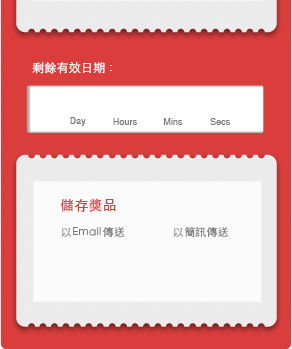
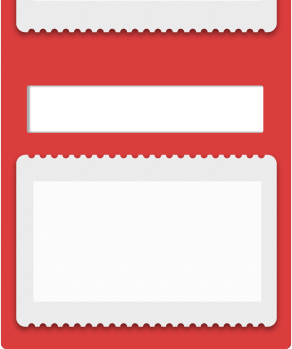
update 0506

diff --git a/app/index.html b/app/index.html
@@ -142,9 +142,18 @@
           </aside>
           <aside class="coupon-butt">
               <aside class="counter text-center">
-                <span id="expired" class="Open-Sans-bold-600 text-red" data-expiration="2016/5/1"></span>
+                <label class="counter-label">剩餘有效日期 :</label>
+                <span id="expired" class="Open-Sans-bold-600 text-red" data-expiration="2016/6/1"></span>
+
+                <label class="counter-label-day">Day</label>
+                <label class="counter-label-hour">Hour</label>
+                <label class="counter-label-min">Mins</label>
+                <label class="counter-label-sec">Secs</label>
               </aside>
               <aside class="functions vertical-middle text-left">
+                <label class="save-label">儲存獎品</label>
+                <label class="save-label-email">以Email傳送</label>
+                <label class="save-label-sms">以簡訊傳送</label>
                 <a href="javascript:" class="btn-email">
                   <img src="images/common/email.png">
                 </a>
@@ -161,7 +170,11 @@
             <aside class="logo vertical-bottom text-center">
               <img src="images/logo-100x100.png">
             </aside>
-            <input type="email" name="email">
+            <span class="caption">儲存獎品</span>
+            <span class="input-label">輸入Email地址</span>
+            <span class="input" title="Email:">
+              <input type="email" name="email">
+            </span>
             <aside class="functions vertical-bottom text-center">
               <a href="javascript:" class="btn-thankyou">
                 <img src="images/index/submit.png">
@@ -176,7 +189,11 @@
             <aside class="logo vertical-bottom text-center">
               <img src="images/logo-100x100.png">
             </aside>
-            <input type="email" name="email">
+            <span class="caption">儲存獎品</span>
+            <span class="input-label">輸入手機號碼</span>
+            <span class="input" title="TEL:">
+              <input type="email" name="email">
+            </span>
             <aside class="functions vertical-bottom text-center">
               <a href="javascript:" class="btn-thankyou">
                 <img src="images/index/submit.png">
@@ -198,6 +215,21 @@
               &amp;redirect_uri=https://developers.facebook.com/tools/explorer">
             <img src="images/common/share.png">
           </a>
+          <span class="caption">
+            儲存成功！非常感謝您的參與！ Thank You!
+          </span>
+          <span class="facebook-caption">
+            分享優惠
+          </span>
+          <span class="location-caption">
+            兌換地點
+          </span>
+          <span class="expiration-caption">
+            Expiration Date
+          </span>
+          <span class="more-caption">
+            更多獎項優惠
+          </span>
           <span class="zip text-dark text-left">10293</span>
           <span class="address text-dark text-left">臺北市大安區忠孝東路3段302號</span>
           <span class="expired text-dark text-left">2016 / 09 / 14</span>

diff --git a/app/styles/main.scss b/app/styles/main.scss
@@ -573,6 +573,60 @@ body {
       }
     }
   }
+  .counter-label{
+    position:absolute;
+    top:vw320(912);
+    left:vw320(47);
+    color:#fff;
+    font-size: vw320(12);
+  }
+  .counter-label-day,
+  .counter-label-hour,
+  .counter-label-min,
+  .counter-label-sec{
+    position:absolute;
+    top:vw320(966);
+    left:vw320(83);
+    color: inherit;
+    font-size: vw320(10);
+    font-weight: normal;
+
+  }
+  .counter-label-hour{
+    left:vw320(126);
+  }
+  .counter-label-min{
+    left:vw320(176);
+  }
+  .counter-label-sec{
+    left:vw320(223);
+  }
+  .save-label{
+    position:absolute;
+    color:#DB3D3D;
+    top:vw320(1048);
+    left:vw320(74);
+    letter-spacing: 1px;
+    font-weight: normal;
+    font-size: vw320(14);
+  }
+  .save-label-email{
+    position:absolute;
+    top:vw320(1077);
+    left:vw320(74);
+    font-weight: normal;
+    letter-spacing: 1px;
+    font-size: vw320(11);
+
+  }
+  .save-label-sms{
+    position:absolute;
+    top:vw320(1077);
+    left:vw320(185);
+    font-weight: normal;
+    letter-spacing: 1px;
+    font-size: vw320(11);
+  }
 }
 .form-content{
   background-image: url(../images/wheel/wheel-background.png);
@@ -594,15 +648,38 @@ body {
       width: vw320(292);
       height: vw320(370);
       display: inline-block;
-      input{
+      .caption{
+        font-size: vw320(14);
+        color: #DB3D3D;
+        position:absolute;
+        top: vw320(186);
+        left: vw320(148);
+
+      }
+      .input-label{
+        position:absolute;
+        top: vw320(246);
+        left: vw320(66);
+      }
+      .input{
         position:absolute;
         top: vw320(280);
+        left: vw320(110);
+        &:before{
+          content: attr(title);
+          font-size: vw320(10);
+          // border: 1px solid currentColor;
+          margin-left: vw320(-62);
+        }
+      }
+      input{
+        position:absolute;
+        top: vw320(-5);
+        left: 0;
         background: rgba(0, 0, 0, 0);
         border: 0;
         height: vw320(27);
-        left: vw320(110);
         position: absolute;
-        top: vw320(276);
         width: vw320(150);
       }
       .functions{
@@ -644,15 +721,38 @@ body {
       width: vw320(292);
       height: vw320(370);
       display: inline-block;
-      input{
+      .caption{
+        font-size: vw320(14);
+        color: #DB3D3D;
+        position:absolute;
+        top: vw320(186);
+        left: vw320(148);
+
+      }
+      .input-label{
+        position:absolute;
+        top: vw320(246);
+        left: vw320(66);
+      }
+      .input{
         position:absolute;
         top: vw320(280);
+        left: vw320(110);
+        &:before{
+          content: attr(title);
+          font-size: vw320(10);
+          // border: 1px solid currentColor;
+          margin-left: vw320(-62);
+        }
+      }
+      input{
+        position:absolute;
+        top: vw320(-5);
+        left: 0;
         background: rgba(0, 0, 0, 0);
         border: 0;
         height: vw320(27);
-        left: vw320(110);
         position: absolute;
-        top: vw320(276);
         width: vw320(150);
       }
       .functions{
